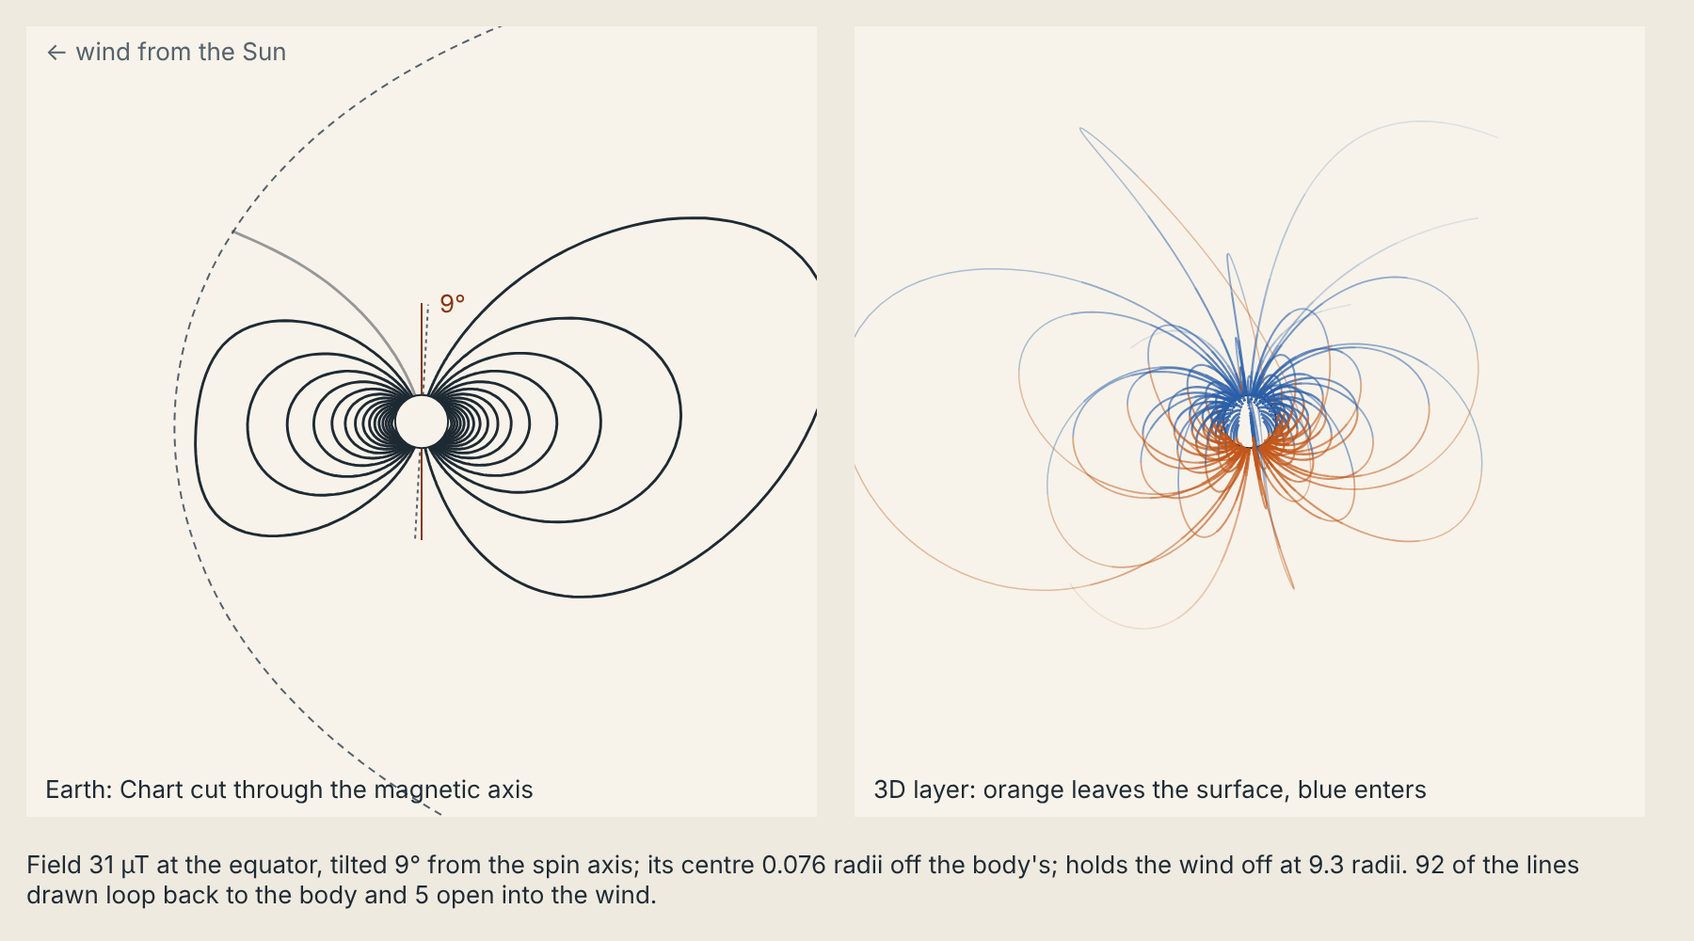
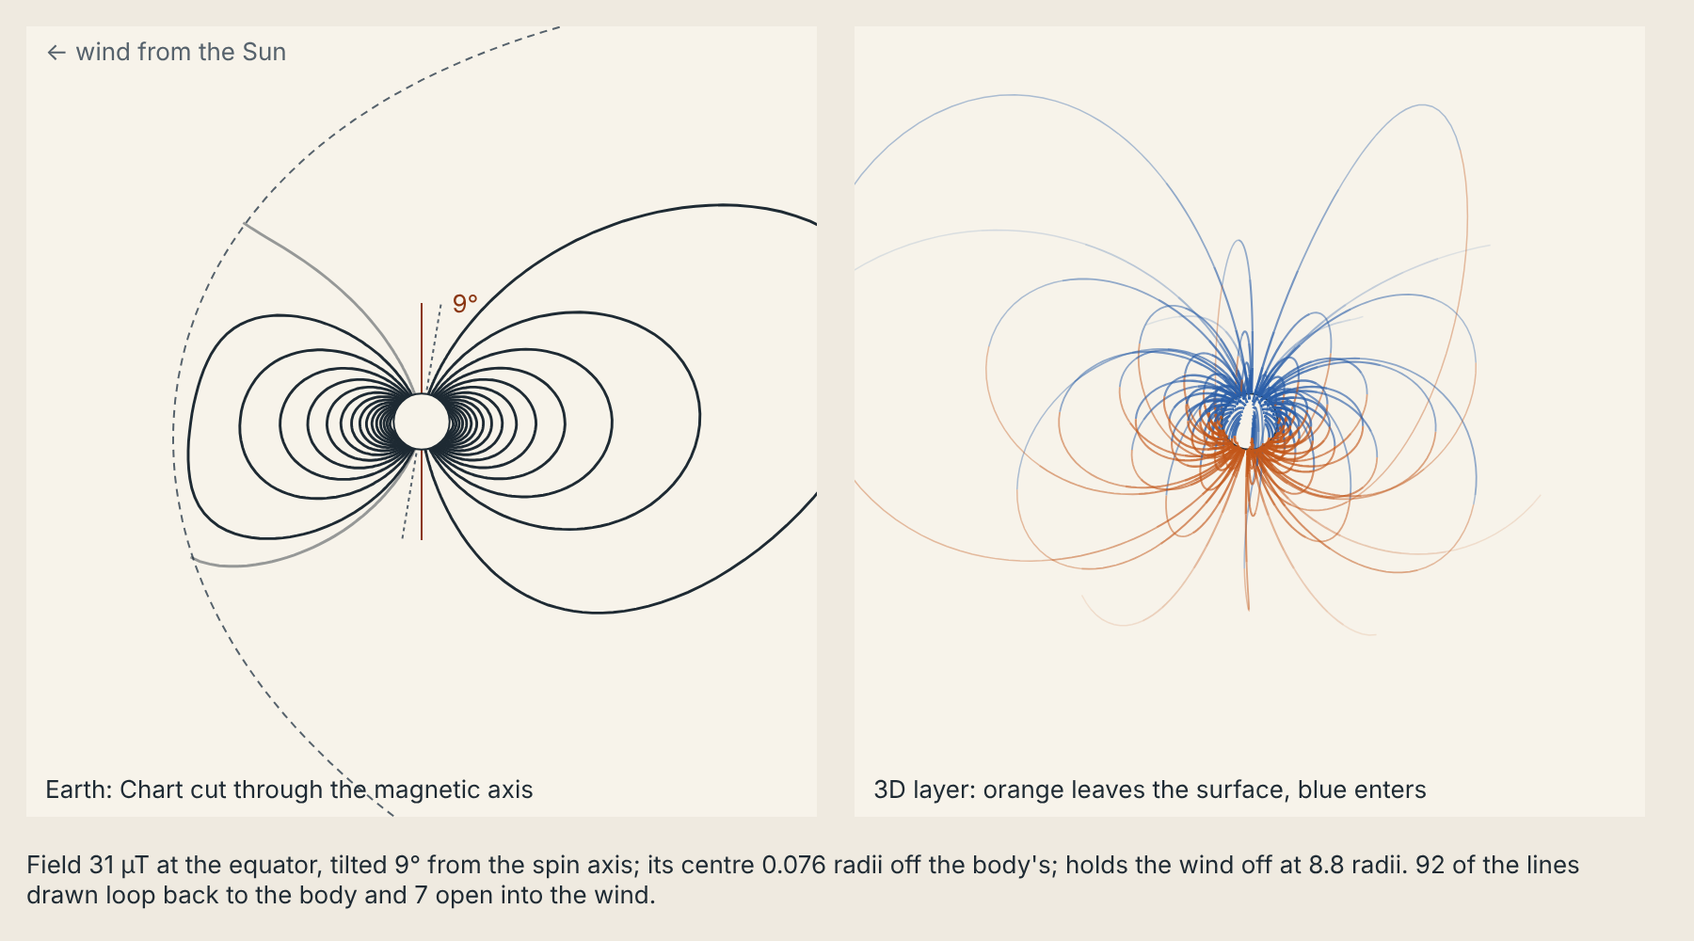
MF14a part 1b: the Mag layer reads the kernel's measured Solar System fields (#176)
* R2b part 1: today's clouds, haze and storms on the Body globe

The kernel's weather op (six level-0 tiles, 32 cells a face, and the storm
list) on the campaign's day. Each cell's layers become one reflectance
(two-stream slab, Bohren 1987; g 0.85, Hansen and Travis 1974) laid over the
ground by the adding method, so palette and physical albedo change together.
Words name cover, rain (ETCCDI wet days) and the largest storms. Interim
[data-weather-controls] node; lapse.view(lon, lat) for the chart room's
event marks. Three fudge rows.

Claude-Session: https://claude.ai/code/session_01E1vcBjUKvgqmtY6ur8taHk

* R2b: type check fix in blendAt

Claude-Session: https://claude.ai/code/session_01E1vcBjUKvgqmtY6ur8taHk

* Y5 part 1: the stars beyond, drawn from sky_from_here and sky_glow

The kernel's stars to the limit and the glow of everyone else, drawn
together in galactic coordinates on Sky from here: HEALPix RING written
fresh (Gorski 2005), a stereographic camera, glow blended in linear light,
each star's flux as a spread, true colour in V (temperature, B-V by
Ballesteros 2012) and mapped grey in other bands with a per-band exposure.
Band switch redraws without new reads; a click picks a star; words give
counts, the brightest and the glow. Own panel until the kernel publishes
each system's orientation in the galaxy. Three fudge rows.

Claude-Session: https://claude.ai/code/session_01E1vcBjUKvgqmtY6ur8taHk

* Y5 part 2: the stars behind the Window's lights
[…]

diff --git a/packages/renderer/test/field.test.ts b/packages/renderer/test/field.test.ts
@@ -1,7 +1,7 @@
 // The Field layer's tracer (MF14a part 1): coefficients to field, field to lines, lines against the bubble.
 import { test } from "node:test";
 import assert from "node:assert/strict";
-import { bubbleOutline, chartCut, compressed, inBubble, cutPaths, drawField3D, project3D, dipole, dipoleAxis, fieldAt, insideBubble, lineBuffers, narrateField, schmidt, traceField, traceLine, type V3 } from "../src/field.ts";
+import { FIELD_LINES, bubbleOutline, chartCut, compressed, inBubble, cutPaths, drawField3D, project3D, dipole, dipoleAxis, fieldAt, insideBubble, lineBuffers, narrateField, schmidt, traceField, traceLine, type V3 } from "../src/field.ts";
 
 const near = (a: number, b: number, tol: number, what: string) => assert.ok(Math.abs(a - b) <= tol, `${what}: ${a} against ${b}`);
 
@@ -164,4 +164,37 @@ test("the views' fixture: a dipole Earth inside its bubble traces closed and ope
   const t = traceField(model, bubble);
   assert.ok(t.counts.closed > 50 && t.counts.open > 0, JSON.stringify(t.counts));
   assert.match(narrateField(model, bubble, t), /^Field 31 µT at the equator, tilted 9° from the spin axis; holds the wind off at 9\.3 radii\./);
+});
+
+test("part 1b: read_field's Solar System fixture becomes the layer's model and bubble", async () => {
+  const { readFileSync } = await import("node:fs");
+  const { Session } = await import("../../ui-contract/src/session.ts");
+  const { gmSeat } = await import("../../ui-contract/src/seat.ts");
+  const { nodeKernel } = await import("../../ui-contract/test/node-kernel.ts");
+  const { fieldFromRead, dipoleB0 } = await import("../src/field.ts");
+  const k = nodeKernel();
+  try {
+    const pack = (n: string) => JSON.parse(readFileSync(new URL(`../../../packs/${n}/pack.json`, import.meta.url), "utf8"));
+    const s = await Session.open(k.client, gmSeat(), { id: "mag", seed: "mag" }, [pack("base-physics"), pack("base-reference")]);
+    const r = await s.readField({ fixture: "solar-system" });
+    assert.ok(r.ok, JSON.stringify(r));
+    const bodies = r.bodies as never as Parameters<typeof fieldFromRead>[0][];
+    const earth = fieldFromRead(bodies.find((b) => b.name === "Earth")!)!;
+    // IGRF's g10 is about −29.4 µT; the fixture's dipole from the measured moment lands near it.
+    near(dipoleB0(earth.model) * 1e6, 30.6, 1.5, "Earth's B0, µT");
+    assert.ok(earth.bubble && earth.bubble.standoff_radii > 7 && earth.bubble.standoff_radii < 12);
+    // Parker's spiral at Earth: about 45°, so the radial and azimuthal parts are about equal.
+    const wf = earth.bubble.wind_field_t!;
+    near(Math.abs(wf[0]) / Math.abs(wf[1]), 1.1, 0.2, "spiral");
+    const t = traceField(earth.model, earth.bubble);
+    assert.ok(t.counts.closed > 50 && t.counts.open > 0, JSON.stringify(t.counts));
+    for (const name of ["Mercury", "Jupiter", "Saturn", "Uranus", "Neptune"]) {
+      const b = fieldFromRead(bodies.find((x) => x.name === name)!)!;
+      assert.ok(b && b.bubble, name);
+      const tr = traceField(b.model, b.bubble, FIELD_LINES.canvas!);
+      assert.ok(tr.counts.closed > 0, `${name}: ${JSON.stringify(tr.counts)}`);
+    }
+  } finally {
+    await k.close();
+  }
 });

diff --git a/packages/renderer/src/field.ts b/packages/renderer/src/field.ts
@@ -714,3 +714,48 @@ export const FIELD_LINES: Record<"gpu-high" | "gpu-basic" | "canvas" | "text", {
   canvas: { perHemisphere: 10, meridians: 4 },
   text: null,
 };
+
+/** The parts of a read_field body (fixture "solar-system", or MF2's facts later) the layer reads. */
+export interface FieldReadJson {
+  address: string;
+  name?: string;
+  obstacle: { kind: string; standoff_radii: number };
+  flaring?: number;
+  field?: { reference_radius_m: number; g10_t: number; g11_t: number; h11_t: number; offset_radii?: number; tilt_deg?: number; grade?: string; stand_ins?: string[] };
+  wind_field?: { radial_t: number; azimuthal_t: number; sector?: string };
+}
+
+/**
+ * A read_field body to the layer's model and bubble. The body frame has z along the spin axis and x toward the
+ * star (the wind blows along −x); the ecliptic is taken as the spin equator. The wind's field is Parker's spiral:
+ * radial along −x (away from the star) for an away sector, and azimuthal along the star's spin, which is the
+ * orbit's prograde sense, −y in this frame (z × −x).
+ * Null when the body has no field block (no facts yet) or its own field is not what holds the wind off.
+ */
+export function fieldFromRead(r: FieldReadJson): { model: FieldModel; bubble: Bubble | null; notes: string[] } | null {
+  const f = r.field;
+  if (!f) return null;
+  const g = [[], [f.g10_t, f.g11_t]];
+  const h = [[], [0, f.h11_t]];
+  const base: FieldModel = { radius_m: f.reference_radius_m, g, h };
+  const notes = [...(f.stand_ins ?? [])];
+  let model = base;
+  if (f.offset_radii && f.offset_radii > 0) {
+    // The offset's direction is not published yet: drawn along the magnetic axis, toward the pole the field leaves.
+    const ax = dipoleAxis(base);
+    model = { ...base, offset: [-ax[0] * f.offset_radii, -ax[1] * f.offset_radii, -ax[2] * f.offset_radii] };
+    notes.push("the centre's offset is drawn along the magnetic axis, toward the pole the field leaves; its real direction is not published yet");
+  }
+  const own = r.obstacle.kind === "field";
+  const w = r.wind_field;
+  const bubble: Bubble | null = own
+    ? {
+        standoff_radii: r.obstacle.standoff_radii,
+        flaring: r.flaring ?? 0.5,
+        sunward: [1, 0, 0],
+        ...(w ? { wind_field_t: [-w.radial_t, -w.azimuthal_t, 0] as V3 } : {}),
+      }
+    : null;
+  if (!own) notes.push(`its ${r.obstacle.kind}, not its field, holds the wind off, so the lines are drawn to their own reach`);
+  return { model, bubble, notes };
+}

diff --git a/packages/ui-contract/src/session.ts b/packages/ui-contract/src/session.ts
@@ -205,6 +205,8 @@ export interface ViewSession {
   skyGlow(ask: Omit<SkyAsk, "observer"> & { nside?: number }): Promise<{ ok: true; glow: Json } | { ok: false; code: string; message: string }>;
   weather(ask: WeatherAsk): Promise<{ ok: true; want: string; world: string; provenance: Json; data: Json } | { ok: false; code: string; message: string }>;
   readActivity(ask: { stars: Json[]; seed?: string; at_s?: number; window?: { from_s: number; to_s: number; min_energy_j?: number } }): Promise<{ ok: true; stars: Json[] } | { ok: false; code: string; message: string }>;
+  /** What stops the wind at each body, and its field (read only): `fixture: "solar-system"` or handed `bodies`. */
+  readField(ask: { fixture?: string; bodies?: Json[] }): Promise<{ ok: true; bodies: Json[] } | { ok: false; code: string; message: string }>;
   kernelVersion(): Promise<string>;
   /** Derived values of a flow (read only; no event). */
   derive(ref: DeriveRef): Promise<{ ok: true; values: Record<string, Derived> } | { ok: false; message: string }>;
@@ -672,6 +674,11 @@ export class Session implements ViewSession {
   async readActivity(ask: { stars: Json[]; seed?: string; at_s?: number; window?: { from_s: number; to_s: number; min_energy_j?: number } }): Promise<{ ok: true; stars: Json[] } | { ok: false; code: string; message: string }> {
     const r = await this.#call({ op: "read_activity", ...ask } as Json);
     return r.type === "activity_read" ? { ok: true, stars: (r as unknown as { stars: Json[] }).stars } : { ok: false, code: String(r.code ?? "unexpected"), message: String(r.message ?? JSON.stringify(r)) };
+  }
+
+  async readField(ask: { fixture?: string; bodies?: Json[] }): Promise<{ ok: true; bodies: Json[] } | { ok: false; code: string; message: string }> {
+    const r = await this.#call({ op: "read_field", ...ask } as Json);
+    return r.type === "field_read" ? { ok: true, bodies: (r as unknown as { bodies: Json[] }).bodies } : { ok: false, code: String(r.code ?? "unexpected"), message: String(r.message ?? JSON.stringify(r)) };
   }
 
   async windowView(ask: import("./window.ts").WindowAsk): Promise<{ ok: true; view: import("./window.ts").WindowView } | { ok: false; code: string; message: string }> {

diff --git a/packages/renderer/src/index.ts b/packages/renderer/src/index.ts
@@ -39,5 +39,5 @@ export { addLayers, CLOUD_G, cloudReflectance, HAZE_G, liveSystems, narrateWeath
 export type { WeatherCell, WeatherLayer, WeatherMap, WeatherSystem, WeatherTile } from "./weather.ts";
 export { ang2pixRing, drawSky, exposureFor, glowLevel, glowPixel, glowSample, narrateSky, pickStar, pix2angRing, pointSpread, projectSky, readSky, skyCamera, skyView, systemView, toGalactic, toSystem, SKY_POINTS_MAX, SKY_WHITE_MAG_ARCSEC2, starRgb, tempFromBV, unprojectSky } from "./sky.ts";
 export type { Sky, SkyCamera, SkyGlowBand, SkyStar, SkyView, SystemFrame } from "./sky.ts";
-export { bubbleOutline, chartCut, compressed, cutPaths, degreeOf, dipole, dipoleAxis, dipoleB0, drawField3D, FIELD_LINES, FIELD_REFS, fieldAt, inBubble, insideBubble, lineBuffers, narrateField, project3D, schmidt, seeds, traceField, traceLine } from "./field.ts";
-export type { Bubble, ChartCut, FieldCamera, FieldLine, FieldModel, FieldTrace, Pen, Run, TraceOptions } from "./field.ts";
+export { bubbleOutline, chartCut, compressed, cutPaths, degreeOf, dipole, dipoleAxis, dipoleB0, drawField3D, FIELD_LINES, FIELD_REFS, fieldAt, fieldFromRead, inBubble, insideBubble, lineBuffers, narrateField, project3D, schmidt, seeds, traceField, traceLine } from "./field.ts";
+export type { Bubble, ChartCut, FieldCamera, FieldLine, FieldModel, FieldReadJson, FieldTrace, Pen, Run, TraceOptions } from "./field.ts";

diff --git a/handover/START-HERE.md b/handover/START-HERE.md
@@ -181,7 +181,7 @@ Milestone M1 "Proven core" = packages K0 to K6 (build plan section 3/4).
 |---|---|---|
 | Physics | P1, P3, P4, F0 to F6 done; pipeline, F7, F9, S0 to S4, S6 and S7 done, served by the `survey_surface` op; T3 NAV done (`sse-nav`, `plan_route`); S5 done (`plan_descent`); F8 next (G6 is in), S8 on G7; next B1 one body (handover/design/SSE4-star-census.md), then weather W1 to W3 and W5, then S8 or S9 | `main` via PRs |
 | Kernel | K7 to K10, G0 to G6, C1 to C3, L0, L1a to L1d, L2 (with E3 competing O2 sinks, `packages/E3.md`), E0 chemistries as data and reaction energetics (`packages/E0.md`), J1 to J5, J7, T1, T2 (also through the API), the U3 gaps, the V10 grant gaps and the UI asks (`adopt`, look-ahead write-back, `resolved_system`; K6-additions.md; `orbits_at`, campaign clock and calendars, `packages/orbits-clock-calendar.md`) galactic nuclei (`packages/G-nuclei.md`) the `sift` op for the agents (`packages/sift-op.md`) and J6 part 1 (programs, `packages/J6.md`) done; next J6 part 2 (NAV travel, pirate and patrol), then G7; one campaign clock with the two look-ahead accept choices and `set_system_age` with a reconstructed origin (`packages/T2-clock.md`), leftover clouds in `resolved_system` (`packages/clouds-read.md`), `classify_preview` for drafted game tables (`packages/classify-preview.md`); the E1 gradient catalogue as an opt-in life model (`packages/E1.md`); star cells and stored promotions through the kernel, night sky Y7a (`packages/Y7a.md`); tag declarations with a load-time check, campaign tags and exclusive groups, TG1 (`packages/TG1.md`); the physics wall, TG2 (`packages/TG2.md`); authored tags overrule rule tags, TG3 (`packages/TG3.md`); seeded chance on rules, TG4 (`packages/TG4.md`); tags level with facts in data views, TG5 (`packages/TG5.md`); dressing rules (universe packs place templates on worlds that fit), TG12 (`packages/TG12.md`); metabolisms grown from open gradients as an opt-in history, E2 (`packages/E2.md`); the master data sheet's reader, load checks and `read_matter`, MP1 (`packages/MP1.md`); constants as data with one handle and the reach report, MP1c part 1 (`packages/MP1c-part1.md`); soil as state made by life with a derived weathering factor and soil carbon in the ledger, opt-in, E4 (`packages/E4.md`); functional traits under selection with strain, extinction and rescue, E5 cut to what E6 needs (`packages/E5.md`); stars that follow a changed constant by homology, stamped ESTIMATED, MP1c part 2 (`packages/MP1c-part2.md`); a region's cover and biome from its climate, with fire, E6 part 1 (`packages/E6.md`); the air's available Gibbs energy feeding box I, E8 (`packages/E8.md`); the fill-star count tree by brightness class, night sky Y1 (`packages/Y1.md`); many phases per substance with load checks and `phase_at`, MP17 (`packages/MP17.md`); paste support for the Build desk, one-event batches with withdraw and restore (`packages/paste-ops.md`); the Look up block `sse.reference.lookup`, the one door onto the sheet, with "used by" from the wiring, MP17a (`packages/MP17a.md`); the sky from here, star by star through dust down to a limit, with giants made realistic, night sky Y2 (`packages/Y2.md`); other galaxies in the sky from the web around us, lit by the fill's own stars, night sky Y4 part 1 (`packages/Y4.md`); massive stars capped by the Humphreys–Davidson limit and a 6.5 sky in about half the time (`packages/Y2-fix.md`); each system's frame in the galaxy on `resolved_system` and `window_view`, Sol's measured (`packages/frame.md`); our galaxy's satellites as its surviving subhaloes (Y4 part 2, `packages/Y4.md`); next Earth's two radii named apart (owning threads) and the lint (CI, needs Alex's yes), turning E2 and E4 on in the kernel's coupled runs (the gradient model wiring), E6 part 2 (zonal and regional runs from the shared climate, the biome tile hand-off, the red-dwarf ring, wiring E4 and E5 into the history), then E7, interleaved with night sky Y4 part 3, Y7, Y8, Y9 | `main` via PRs |
-| Renderer (R1 to R4, then exotic objects in bands) | R1, R2a (air from kernel facts, physical lighting, True colour), R3 (still tier, "Take photograph"), R4 part 1 (checked recipe edits, hand editor) and R5a (stars: photosphere, spots, X-ray corona, granules from O10 cells), R6 (time-lapse layers, `packages/R6-timelapse.md`) and R2b part 1 (today's clouds, haze and storms from the weather op, `packages/R2b-weather.md`), Y5 parts 1 and 2 (the stars beyond, and behind the Window's lights, `packages/Y5.md`) and MF14a part 1 (the Mag layer's shared tracer, Chart cut and 3D lines, `packages/MF14a.md`) done; air from the kernel's read_air_optics; next MF14a part 1b (read_field's Solar System fixture), R2b part 2 (cloud shell at height on the GPU tiers), MF14a part 2 (3D tubes and True band emissions), R5 light-lens views, R4 part 2 with Orac (A2) | `main` via PRs |
+| Renderer (R1 to R4, then exotic objects in bands) | R1, R2a (air from kernel facts, physical lighting, True colour), R3 (still tier, "Take photograph"), R4 part 1 (checked recipe edits, hand editor) and R5a (stars: photosphere, spots, X-ray corona, granules from O10 cells), R6 (time-lapse layers, `packages/R6-timelapse.md`) and R2b part 1 (today's clouds, haze and storms from the weather op, `packages/R2b-weather.md`), Y5 parts 1 and 2 (the stars beyond, and behind the Window's lights, `packages/Y5.md`) and MF14a part 1 (the Mag layer's shared tracer, Chart cut and 3D lines, `packages/MF14a.md`) done; air from the kernel's read_air_optics; R2b part 2 (cloud shell at height on the GPU tiers), MF14a part 2 (3D tubes and True band emissions), R5 light-lens views, R4 part 2 with Orac (A2) | `main` via PRs |
 | Chart room shell and player views | U0 to U3, V1, U5, V2, V12, V3, V11, V4, V5, planet chart, V10, V6 System 3D, U9 lenses, N1 sound, U4 (what-if and look-ahead), A1 part 1, O1 light switch (UI), V13 parts 1 and 2 (import and grow, add to the campaign, read back and age with write-back), V6 Cutaway and Body globe (Body screen), phone screen menu, V14 size comparison and chart measuring, U10 browser campaign save, U7 biosphere view part 1, U11 human-scale time parts 1 and 2, U12 tactility parts 1 and 2, U13 shell frame (top-level redesign step 1), U14 desks and U15 depth (step 2 parts 1 and 2) done; next the top-level redesign's steps 2 to 7 in order (copy and paste, start sheet, Explorers shelf, scale ladder, tours, Find, engine-only screens), the campaign's now through the intent log, V7, U7 part 2 (LifeFlow) | `main` via PRs |
 
 **Since 19 Nov (Alex): `main` is the default branch.** New work branches from `main` and arrives as a pull request

diff --git a/docs/fudges.md b/docs/fudges.md
@@ -532,7 +532,7 @@ The owner wants the physics in chain blocks (except big blocks) with a UI elemen
 | `sky.ts` SKY_WHITE_MAG_ARCSEC2 and exposureFor (Y5) | The sky is shown with a fixed display exposure: 18 V mag per square arcsecond is full white. Other bands shift by the whole sky's brightness in them; they are not an eye or detector model | A screen cannot show the eye's dark adaptation or a sensor's response; one stated exposure keeps the bands comparable | An eye model (scotopic response, Purkinje shift) for V, and each instrument's response and exposure time from O8 sensors for the rest (Y6) | To review with Y6 |
 | `sky.ts` pointSpread | Each star is a Gaussian of 0.8 px whose total light is its flux, scaled so the faintest chosen star just shows. Brighter stars look wider only because more of their spread clears one display level | The real point spread of an eye or telescope is far below a pixel at these fields | An instrument's own PSF and seeing from O8 and Y6 sensors, drawn at its true angular size when zoomed in | To review with Y6 |
 | `sky.ts` glowSample | The HEALPix glow is blended between pixel centres with a Gaussian of 0.7 pixel spacing, in linear light | The kernel's map is coarse (nside 16, about 3.7° pixels) for speed; nearest-pixel drawing shows the pixels' diamonds | A finer map (nside 64) cached per vantage, when sky_glow is fast enough | Stand-in |
-| `field.ts` compressed and inBubble (MF14a) | Inside the bubble the traced field is the body's own, plus one image of its dipole mirrored at the stand-off (Chapman and Ferraro 1931), plus the wind's field added uniformly (Dungey 1961, as Cowley 1973's vacuum superposition). No tail current sheet, no ring current, no plasma stretching; only the dipole part is mirrored; the mirror is a flat plane, so lines near the cusps and far down the night side can cross Shue's curved surface even with no wind field | The Mag layer must show squeezing and open polar caps from the kernel's own numbers without a magnetospheric field model in the browser | A cited empirical model sized by the wind (Tsyganenko-style tail and ring currents, or Alexeev's paraboloid model), scaled to each body's stand-off | Stand-in |
+| `field.ts` compressed and inBubble (MF14a) | Inside the bubble the traced field is the body's own, plus one image of its dipole mirrored at the stand-off (Chapman and Ferraro 1931), plus the wind's field added uniformly (Dungey 1961, as Cowley 1973's vacuum superposition). No tail current sheet, no ring current, no plasma stretching; only the dipole part is mirrored; the mirror is a flat plane, so lines near the cusps and far down the night side can cross Shue's curved surface even with no wind field. `fieldFromRead` draws a published offset along the magnetic axis (its direction is not published yet) and takes the ecliptic as the spin equator | The Mag layer must show squeezing and open polar caps from the kernel's own numbers without a magnetospheric field model in the browser | A cited empirical model sized by the wind (Tsyganenko-style tail and ring currents, or Alexeev's paraboloid model), scaled to each body's stand-off | Stand-in |
 | `field.ts` seeds and FIELD_LINES (MF14a) | Footpoints are spaced at equal steps of the dipole part's flux, so line spacing means strength for the dipole; a many-poled field is seeded the same way. Lower device tiers trace fewer lines | About 100 lines is what a desktop traces in under 10 ms; finer flux steps would be needed to show a small open cap | Seeding by the full field's flux through the surface (Br over the sphere), with the open cap seeded on its own | Stand-in |
 
 

diff --git a/handover/packages/MF14a.md b/handover/packages/MF14a.md
@@ -74,18 +74,26 @@ Measured in Chromium (Playwright). The phone figures use the Moto G4 profile wit
 
 A phone traces fewer lines (`FIELD_LINES`). The trace runs on a change, never per frame.
 
+## Part 1b: the kernel's measured Solar System fields
+
+- `session.readField({ fixture: "solar-system" })` (ui-contract) reads `read_field`'s fixture (light thread, PR 172).
+  It needs `base-reference` loaded. Each body comes back with `name`, `field` (reference radius, g10, g11, h11,
+  tilt, offset, grade and sources) and `wind_field` (Parker's spiral in the ecliptic, away sector).
+- `fieldFromRead(body)` turns one into `{ model, bubble, notes }`.
+  - In the body frame, z is the spin axis and x points to the star.
+  - The wind's field is radial along −x. Its azimuthal part follows the star's spin, which is the orbit's prograde
+    sense, −y here.
+  - The offset's direction is not published yet, so it is drawn along the magnetic axis and said so in `notes`.
+  - A body whose air or surface holds the wind off gets no bubble, and the lines are drawn to their own reach.
+- Check: Earth's B0 is 30.6 µT, within 1.5 µT. Its stand-off lies between 7 and 12 radii, and Parker's spiral is
+  near 45°. Earth traces closed and open lines. Mercury, Jupiter, Saturn, Uranus and Neptune all trace on the
+  canvas tier.
+
 ## Pictures (`MF14-screens/`)
 
 These are `mf14a-earth.png`, `mf14a-jupiter.png`, `mf14a-uranus.png` and `mf14a-neptune.png`. Each shows the Chart
-cut, the 3D layer and the words. They were made with a scratch script from these inputs:
-
-- the measured-fields fixture (moment, tilt and offset);
-- the kernel's stand-off from `read_light` (fixture solar-system);
-- Parker's spiral for the wind's field.
-
-The tilt direction and offset direction are drawn: the fixture does not hold them yet. Part 1b replaces all this
-with `read_field`'s own Solar System fixture, which the light thread is adding (reference radius, g10, g11 and h11,
-the tilt direction, the offset, and the wind). Then the pictures will come from a test.
+cut, the 3D layer and the words, all from `read_field`'s fixture through `fieldFromRead`. Jupiter's open cap is
+smaller than the first ring of seeds, so its words honestly say "0 open". The pole's longitude is 0 in the fixture.
 
 ## Fudge register
 
@@ -94,8 +102,7 @@ mirror, and seeding by dipole flux.
 
 ## Next
 
-- **Part 1b.** Read `read_field {fixture: "solar-system"}` into a FieldModel and Bubble (`fieldFromRead`), and
-  regenerate the pictures from a test. Add the Sun and a pulsar once stellar coefficients are published.
+- Add the Sun and a pulsar once stellar coefficients are published, and stippled belts from read_field's `belts`.
 - **Part 2.** The 3D style's tubes, belts and the bubble shell in the GPU pass, and True's band emissions: aurora
   glow on the night side, a giant's radio belts and X-ray loops. Then particles drifting along lines at a stated
   speed-up.
